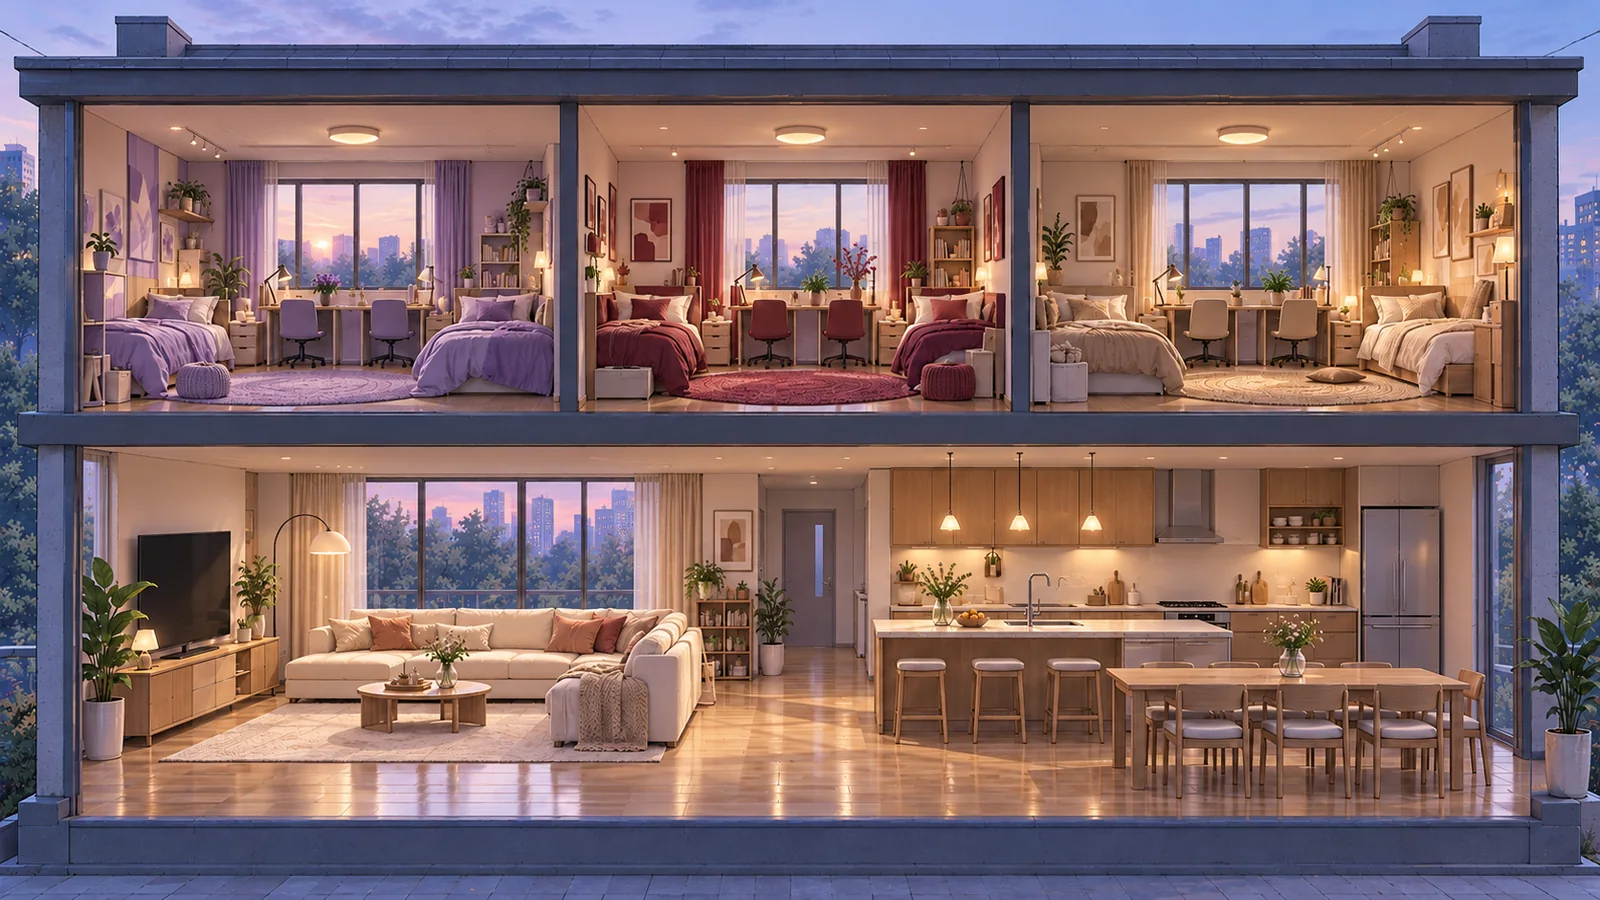
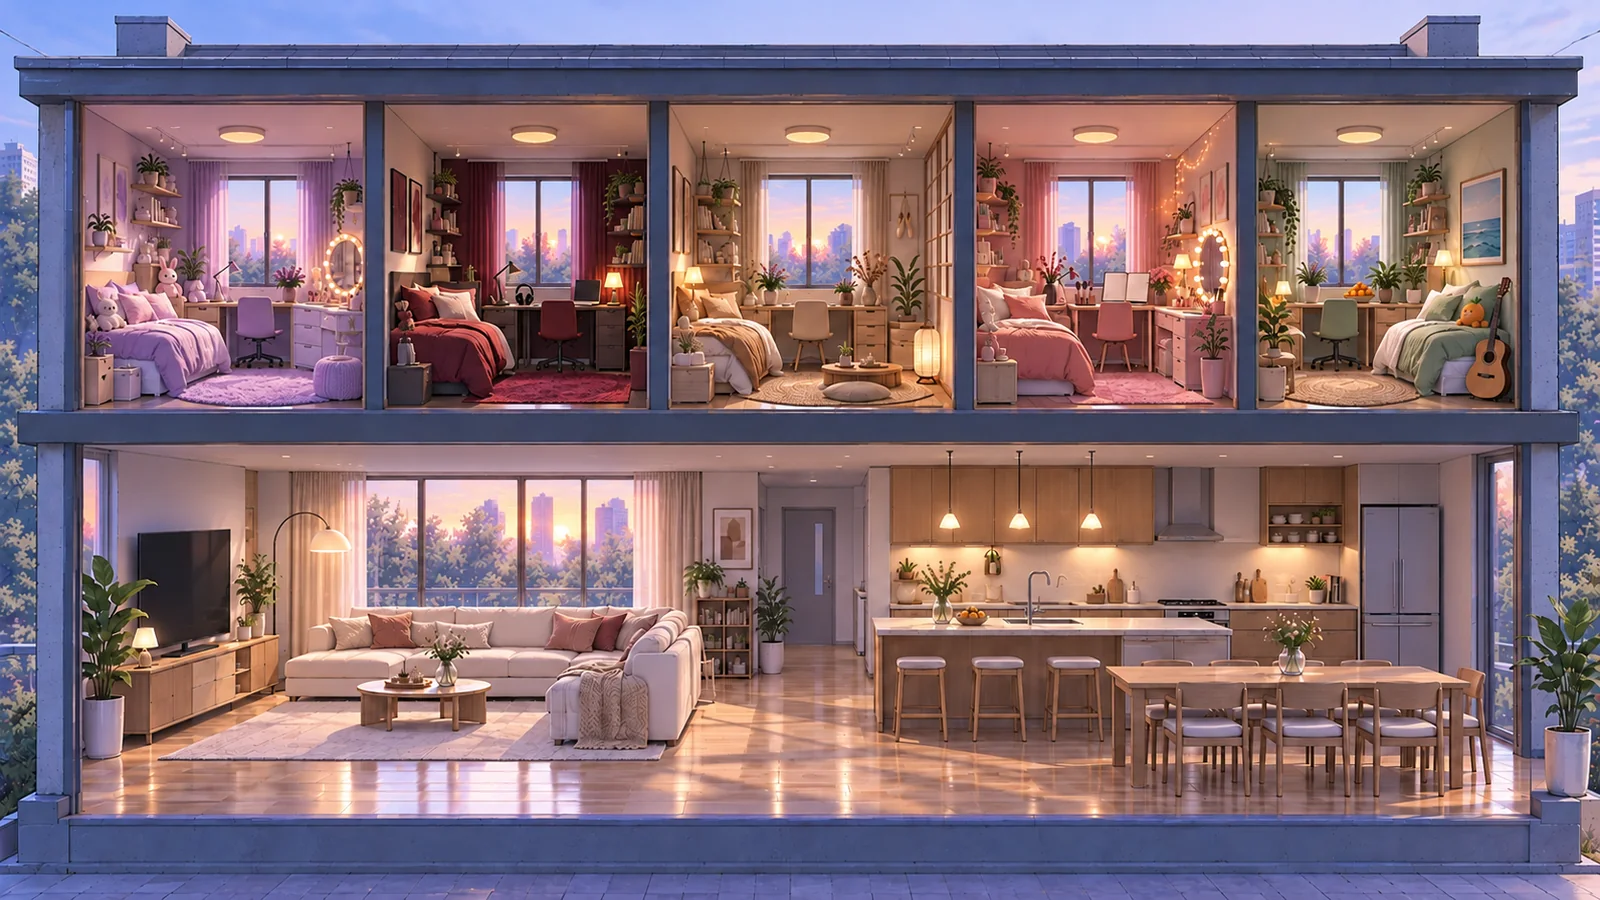
Add files via upload

diff --git a/www/game.js b/www/game.js
@@ -45,10 +45,15 @@ const PLACES=[
   {id:"office",  g:"公司大樓",n:"代表辦公室",sp:"office",  open:[1,2,3]},
   {id:"living",  g:"宿舍",   n:"客廳",     sp:"dorm",    open:[0,3,4]},
   {id:"kitchen", g:"宿舍",   n:"廚房",     sp:"dorm",    open:[0,3,4]},
-  {id:"bedroom", g:"宿舍",   n:"寢室",     sp:"dorm",    open:[0,3,4]},
+  {id:"bed_ys",  g:"宿舍",   n:"藝瑟的房間", sp:"dorm",    open:[0,3,4],base:"bedroom",owner:"ys"},
+  {id:"bed_tr",  g:"宿舍",   n:"泰梨的房間", sp:"dorm",    open:[0,3,4],base:"bedroom",owner:"tr"},
+  {id:"bed_hy",  g:"宿舍",   n:"日和的房間", sp:"dorm",    open:[0,3,4],base:"bedroom",owner:"hy"},
+  {id:"bed_he",  g:"宿舍",   n:"夏恩的房間", sp:"dorm",    open:[0,3,4],base:"bedroom",owner:"he"},
+  {id:"bed_hr",  g:"宿舍",   n:"河嵐的房間", sp:"dorm",    open:[0,3,4],base:"bedroom",owner:"hr"},
   {id:"store",   g:"外面",   n:"便利商店",  sp:"out",     open:[3,4]},
   {id:"river",   g:"外面",   n:"漢江邊",   sp:"out",     open:[3,4]}];
 const PL=Object.fromEntries(PLACES.map(p=>[p.id,p]));
+const baseOf=pid=>PL[pid]?.base||pid;
 const openText=p=>p.open.length===5?"全天開放":p.open.map(i=>SLOTS[i].n).join("、")+"開放";
 const WHERE={
   ys:[{practice:3,kitchen:2,living:1},{practice:4},{practice:3,studio:2},{practice:3,living:2,kitchen:1},{practice:3,living:1,river:1,bedroom:1}],
@@ -233,8 +238,8 @@ function rng(seed){let a=seed>>>0;return()=>{a|=0;a=a+0x6D2B79F5|0;let t=Math.im
 const seedOf=(...xs)=>xs.reduce((h,x)=>Math.imul(h^(typeof x==="string"?[...x].reduce((a,c)=>a*31+c.charCodeAt(0)|0,7):x),2654435761)>>>0,2166136261);
 function pickKey(w,r){const ks=Object.keys(w);let x=r()*ks.reduce((s,k)=>s+w[k],0);for(const k of ks){x-=w[k];if(x<=0)return k}return ks[ks.length-1]}
 function assign(){S.where={};for(const m of M){const w=WHERE[m.id][S.slot],r=rng(seedOf(S.day,S.slot,m.id));
-  const ok=Object.fromEntries(Object.entries(w).filter(([k])=>k.startsWith("外出")||PL[k].open.includes(S.slot)));
-  S.where[m.id]=pickKey(Object.keys(ok).length?ok:{practice:1},r)}}
+  const ok=Object.fromEntries(Object.entries(w).filter(([k])=>k.startsWith("外出")||PL[k==="bedroom"?"bed_"+m.id:k].open.includes(S.slot)));
+  let w2=pickKey(Object.keys(ok).length?ok:{practice:1},r); if(w2==="bedroom") w2="bed_"+m.id; S.where[m.id]=w2}}
 
 const stageOf=id=>{const t=S.m[id].trust,h=S.m[id].heart;if(t>=50&&h>=40)return"心動";if(t>=50)return"夥伴";if(t>=25)return"信任";return"戒備"};
 const STAGE_C={戒備:"#8C7E92",信任:"#C99A2E",夥伴:"#3E9B6B",心動:"#D4537E",戀人:"#C2185B"};
@@ -248,7 +253,7 @@ function hm(){const s=SLOTS[S.slot],mins=s.from+(s.to-s.from)*Math.min(S.t,SLOT_
 const SPOTS=[
   {id:"company",n:"公司大樓",kind:"building",rect:[11.8,10.3,35.4,50.2],pin:[29.5,40],rooms:["practice","studio","office"]},
   {id:"tv",n:"電視台",kind:"locked",rect:[53,10.5,17.5,10.5],pin:[62.5,14],note:"出道後的打歌期開放"},
-  {id:"dorm",n:"宿舍",kind:"building",rect:[67.3,27,21.4,33.5],pin:[77.8,28],rooms:["living","kitchen","bedroom"]},
+  {id:"dorm",n:"宿舍",kind:"building",rect:[67.3,27,21.4,33.5],pin:[77.8,28],rooms:["living","kitchen","bed_ys","bed_tr","bed_hy","bed_he","bed_hr"]},
   {id:"store",n:"便利商店",kind:"place",rect:[47.4,52,17.6,19],pin:[56.2,51.5]},
   {id:"river",n:"漢江公園",kind:"place",rect:[44,74,56,26],pin:[76,79]}];
 /* 剖面圖的房間:r=[左,上,寬,高],feet=腳底高度,h=168 公分的人在畫面上的高度(%) */
@@ -259,12 +264,13 @@ const INSIDE={
     {pid:"office",fl:"2F",n:"代表辦公室",r:[6.4,59.4,88.8,17.2],feet:75.6,h:15.5,xr:[40,80]},
     {pid:"lobby",fl:"1F",n:"大廳",r:[6.4,78.4,88.8,17.8],feet:94,h:15.5,lp:"r",deco:"之後的訪客與行程看板會在這裡"}]},
   dorm:{n:"宿舍",sub:"選擇要去的房間",rooms:[
-    {pid:"bedroom",fl:"2F",n:"藝瑟・河嵐的房間",r:[5,11.2,29.9,33.6],feet:43.6,h:22,mates:["ys","hr"],xr:[25,75]},
-    {pid:"bedroom",fl:"2F",n:"泰梨・夏恩的房間",r:[36.2,11.2,26.6,33.6],feet:43.6,h:22,mates:["tr","he"],xr:[25,75]},
-    {pid:"bedroom",fl:"2F",n:"日和的房間",r:[64.4,11.2,30.7,33.6],feet:43.6,h:22,mates:["hy"],xr:[25,75]},
+    {pid:"bed_ys",fl:"2F",n:"藝瑟",r:[5.25,11.1,17.5,34.1],feet:43.6,h:22,xr:[66,80]},
+    {pid:"bed_tr",fl:"2F",n:"泰梨",r:[24.1,11.1,16.5,34.1],feet:43.6,h:22,xr:[66,80]},
+    {pid:"bed_hy",fl:"2F",n:"日和",r:[41.9,11.1,17.6,34.1],feet:43.6,h:22,xr:[66,80]},
+    {pid:"bed_he",fl:"2F",n:"夏恩",r:[61,11.1,16.2,34.1],feet:43.6,h:22,xr:[66,80]},
+    {pid:"bed_hr",fl:"2F",n:"河嵐",r:[78.6,11.1,16.2,34.1],feet:43.6,h:22,xr:[66,80]},
     {pid:"living",fl:"1F",n:"客廳",r:[5,49.4,48.8,39.6],feet:85,h:22,xr:[30,85]},
     {pid:"kitchen",fl:"1F",n:"廚房",r:[54.4,49.4,40.6,39.6],feet:85,h:22,xr:[15,60]}]}};
-const ROOMMATE={ys:0,hr:0,tr:1,he:1,hy:2};
 let view="map";                 // map | company | dorm
 const spotOf=pid=>SPOTS.find(s=>s.rooms?.includes(pid))?.id||pid;
 const inSpot=sp=>M.filter(m=>{const w=S.where[m.id];return !w.startsWith("外出")&&(spotOf(w)===sp)});
@@ -310,9 +316,9 @@ function renderInside(){if(view==="map") return; const B=INSIDE[view];
   setArt("insideArt",`assets/scene/${view}_${L()}.webp`);
   $("#rooms").innerHTML=B.rooms.map((rm,ri)=>{
     const p=PL[rm.pid], deco=!!rm.deco, open=!deco&&p.open.includes(S.slot), vis=!deco&&S.visited.includes(rm.pid);
-    let ppl=open?who(rm.pid):[]; if(rm.mates) ppl=ppl.filter(m=>rm.mates.includes(m.id));
+    const ppl=open?who(rm.pid):[];
     const dis=deco||!open||vis||S.acts<=0, [x,y,w,h]=rm.r;
-    const st=deco?"之後開放":!open?openText(p):vis?"這個時段已來過":ppl.length?ppl.map(m=>m.n).join("、"):"沒有人";
+    const own=p?.owner, st=deco?"之後開放":!open?openText(p):vis?"這個時段已來過":own?(ppl.some(m=>m.id===own)?(ppl.length>1?ppl.map(m=>m.n).join("、"):"在房間"):ppl.length?ppl.map(m=>m.n).join("、")+"在這裡":"不在"):ppl.length?ppl.map(m=>m.n).join("、"):"沒有人";
     const xr=rm.xr||[18,82], n=ppl.length, r=rng(seedOf(S.day,S.slot,view,ri));
     const figs=ppl.map((m,i)=>{const fx=n===1?(xr[0]+xr[1])/2+(r()-.5)*(xr[1]-xr[0])*.5:xr[0]+(xr[1]-xr[0])*i/(n-1);
       const X=x+w*fx/100, H=rm.h*m.cm/168, of=outfitAt(m.id,rm.pid,S.slot);
@@ -356,7 +362,7 @@ function absentReports(r){const out=[];
     const sn=pickW(cs,r);
     if(sn){S.seen[sn.code]=S.day; const txt=[sn.sc,...(sn.nodes?.start?.L||[]).map(l=>l[0]?`${byId(l[0])?.n||""}:「${l[1]}」`:l[1])].filter(Boolean).join(" ");
       out.push(`<b>${p.n}</b>:${esc(txt)}`); continue}
-    const pool=(ABSENT[p.id]||[]).filter(t=>!t.includes("{b}")||ppl.length>=2); if(!pool.length) continue;
+    const pool=(ABSENT[baseOf(p.id)]||[]).filter(t=>!t.includes("{b}")||ppl.length>=2); if(!pool.length) continue;
     const t=pool[Math.floor(r()*pool.length)],a=ppl[0],b=ppl[1];
     out.push(`<b>${p.n}</b>:`+esc(t).replace("{a}",`<b style="color:${a.c}">${a.n}</b>`).replace("{b}",b?`<b style="color:${b.c}">${b.n}</b>`:""))}
   return out.slice(0,3)}
@@ -389,9 +395,9 @@ function visit(pid){
   $("#vtitle").textContent=p.n; $("#vsub").textContent=`${SLOTS[S.slot].n}・${hm()}・剩 ${S.acts} 次行動`;
   drawPeople(); $("#visit").classList.add("on"); $("#vopts").innerHTML="";
   if(pid==="office"){narr(SCN.office); menu(); return}
-  if(!ppl.length){narr(EMPTY[pid]); menu(); return}
+  if(!ppl.length){narr(PL[pid].owner?`${byId(PL[pid].owner).n}不在房間裡。${EMPTY.bedroom.replace("寢室裡沒有人,","")}`:EMPTY[pid]); menu(); return}
   const sn=pickW(pool({sp:p.sp,room:pid,slot:S.slot,present:ppl,types:ENTRY}));
-  if(sn) play(sn,menu); else {narr(SCN[pid]+(ppl.length===1?`${byId(ppl[0]).n}在這裡。`:`${ppl.map(id=>byId(id).n).join("、")}都在這裡。`)); menu()}
+  if(sn) play(sn,menu); else {narr((PL[pid].owner?`你敲了敲${byId(PL[pid].owner).n}房間的門。`:SCN[baseOf(pid)])+(ppl.length===1?`${byId(ppl[0]).n}在這裡。`:`${ppl.map(id=>byId(id).n).join("、")}都在這裡。`)); menu()}
 }
 function drawPeople(){
   const ids=[...V.present,...(V.summoned?[V.summoned]:[])], n=ids.length, ch=n<=1?120:n===2?104:n===3?92:82;
@@ -540,7 +546,7 @@ document.addEventListener("visibilitychange",()=>{if(document.visibilityState===
 /* ---------- 啟動 ---------- */
 (async()=>{
   await IDB.open(); SCRIPTS=await IDB.get("scripts")||{}; ITEMS=await IDB.get("items")||{}; WMEM=await IDB.get("wmem")||{};
-  if(!Object.keys(S.where).length) assign();
+  if(!Object.keys(S.where).length||Object.values(S.where).includes("bedroom")) assign();
   ensureWear(true); renderAll();
   $("#boot").classList.add("done");
   requestAnimationFrame(t=>{last=t;tick(t)});
